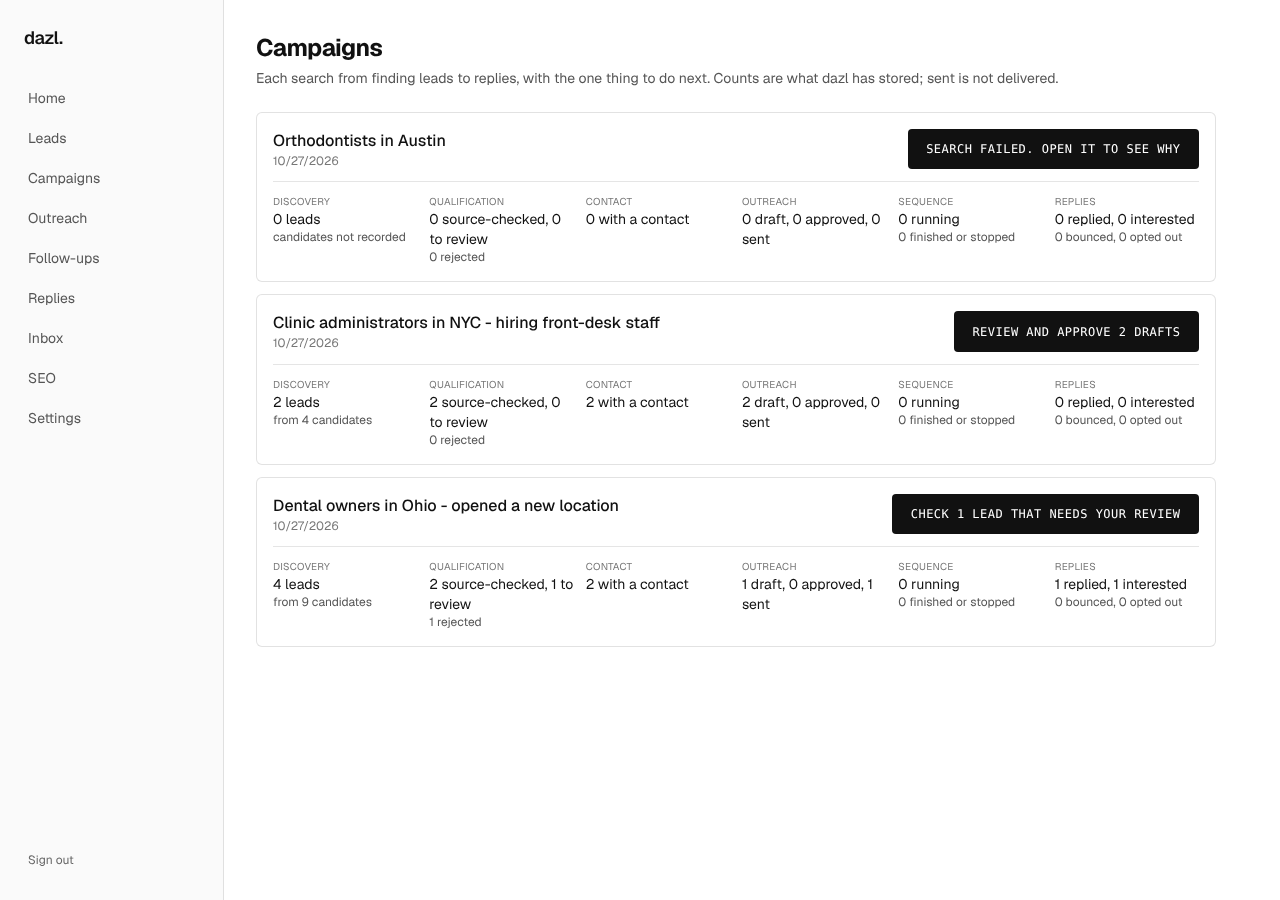
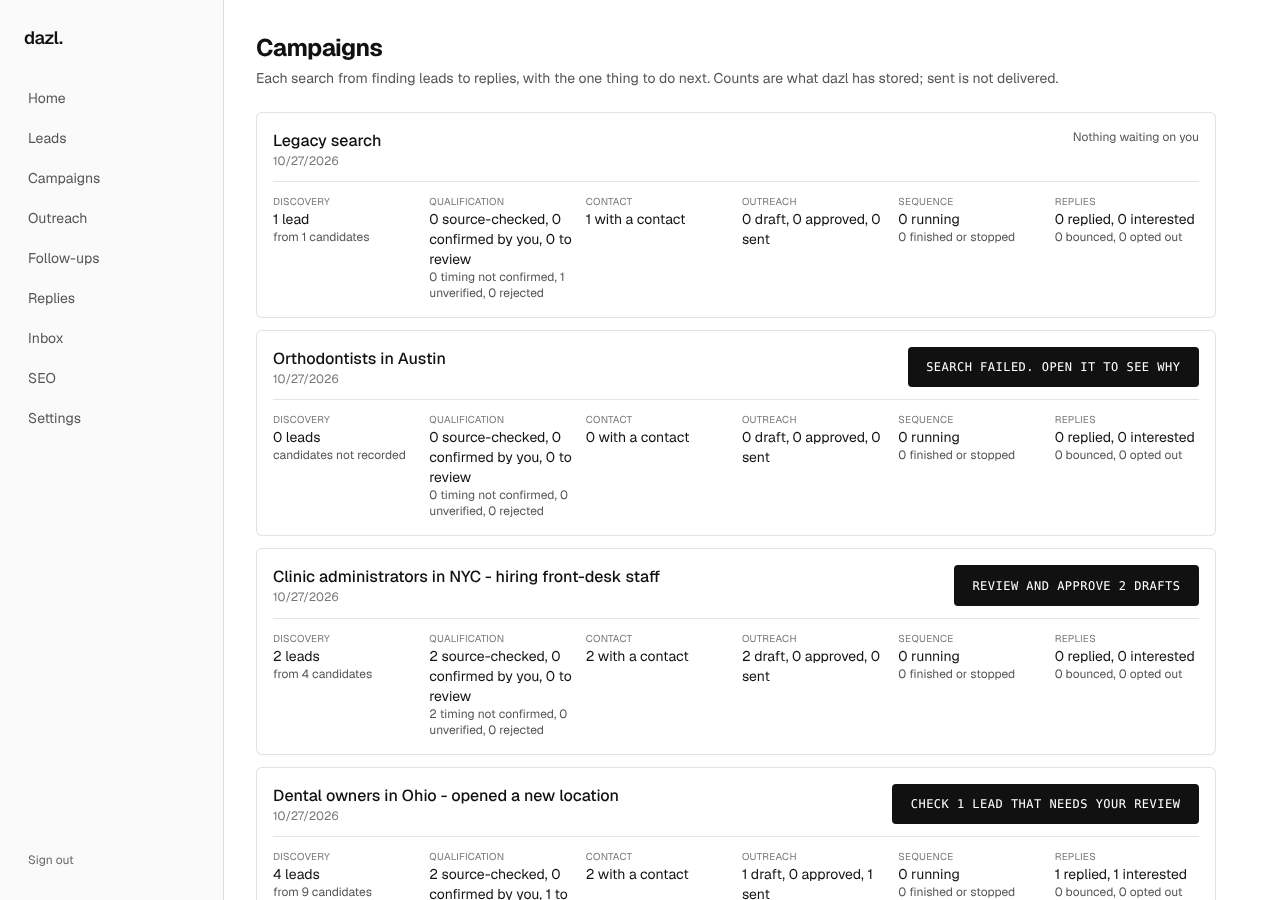
Campaigns and lead card: evidence state and draft eligibility from the server gates
Instinct's review of 2c37c65: a legacy lead with confidence 90 and a contact but
no stored excerpt was counted source-checked and offered as "Approve 1 lead to
draft emails", although leadEvidenceState calls it unverified and createDraft
refuses it.

- lib/outreach/evidence-state.ts evidenceStateOf: the one rule (machine = excerpt
  AND confidence; human = confirmed by you; else unverified). leadEvidenceState,
  createDraft's lead_not_verified check, the lead card's approveState and
  Campaigns all use it.
- service.ts: createDraft's checks extracted unchanged into draftChecks();
  draftBlockReason() runs them read-only and returns the first refusal code.
- Campaigns qualification: source-checked / confirmed by you / to review /
  unverified / timing not confirmed (currentnessHeld) / rejected. "Ready to
  draft" = no message yet and draftBlockReason null; a stored contact alone never
  counts. Next action gains "Confirm the timing of N leads before drafting".

Tests: campaigns controls (legacy no-excerpt, purged evidence, confirmed,
verified) checked against leadEvidenceState and draftBlockReason; lead-card
legacy control; campaigns UI seed gains the legacy row. gate-consistency,
lead-cards UI and the /app smoke still pass.

Claude-Session: https://claude.ai/code/session_01CafonXdzjwkFYiMRJWtsKo

diff --git a/web/test/campaigns.test.ts b/web/test/campaigns.test.ts
@@ -1,15 +1,13 @@
 import { test } from 'node:test'
 import assert from 'node:assert/strict'
 import Database from 'better-sqlite3'
-import { migrateScan } from '../lib/scan/store.ts'
-import { migrateOutreach } from '../lib/outreach/store.ts'
-import { migrateReplies } from '../lib/outreach/replies.ts'
-import { migrateSequences } from '../lib/outreach/sequences.ts'
+import { migrateAllSqlite } from '../lib/db/sqlite-migrations.ts'
 import { listCampaigns, nextAction } from '../lib/outreach/campaigns.ts'
+import { leadEvidenceState, draftBlockReason } from '../lib/outreach/service.ts'
 
 function setup() {
   const db = new Database(':memory:')
-  for (const m of [migrateScan, migrateOutreach, migrateReplies, migrateSequences]) m(db)
+  migrateAllSqlite(db)
   return db
 }
 let t = 1000
@@ -19,9 +17,9 @@ function job(db: Database.Database, user: string, id: string, query: string, o: 
     .run(id, user, o.test ? 'test only' : '(from request)', o.test ? 'test only' : '-', query, o.candidates ?? null, t++)
 }
 const finish = (db: Database.Database, id: string) => db.prepare("UPDATE scan_jobs SET status = 'done' WHERE id = ?").run(id)
-function lead(db: Database.Database, jobId: string, id: string, o: { confidence?: number | null; review?: string | null; confirmed?: number | null; contact?: string | null; quarantined?: number | null } = {}) {
-  db.prepare("INSERT INTO leads (id, scan_job_id, company, signal, source_url, confidence, review_reason, human_confirmed_at, contact, quarantined_at) VALUES (?, ?, 'Co', 'opened an office', 'https://news.example/x', ?, ?, ?, ?, ?)")
-    .run(id, jobId, o.confidence === undefined ? 80 : o.confidence, o.review ?? null, o.confirmed ?? null, o.contact ?? null, o.quarantined ?? null)
+function lead(db: Database.Database, jobId: string, id: string, o: { confidence?: number | null; excerpt?: string | null; review?: string | null; confirmed?: number | null; contact?: string | null; quarantined?: number | null; purged?: number | null } = {}) {
+  db.prepare("INSERT INTO leads (id, scan_job_id, company, signal, source_url, confidence, evidence_excerpt, review_reason, human_confirmed_at, contact, quarantined_at, evidence_purged_at) VALUES (?, ?, 'Co', 'opened an office', 'https://news.example/x', ?, ?, ?, ?, ?, ?, ?)")
+    .run(id, jobId, o.confidence === undefined ? 80 : o.confidence, o.excerpt === undefined ? 'Co opened an office' : o.excerpt, o.review ?? null, o.confirmed ?? null, o.contact ?? null, o.quarantined ?? null, o.purged ?? null)
 }
 function msg(db: Database.Database, tenant: string, leadId: string, status: string) {
   db.prepare("INSERT INTO outreach_messages (id, tenant_id, lead_id, to_email, subject, body, status) VALUES (?, ?, ?, 'a@b.example', 'Hello', 'A body that is long enough to pass the check.', ?)").run(`m-${leadId}`, tenant, leadId, status)
@@ -32,8 +30,8 @@ test('one row per search with every stage counted from that search only', () => 
   job(db, 'A', 'j1', 'Dental owners in Ohio', { candidates: 9 })
   lead(db, 'j1', 'l1', { contact: 'hello@one.example' })               // source-checked, contact, drafted
   lead(db, 'j1', 'l2', { contact: 'hi@two.example' })                  // source-checked, contact, sent
-  lead(db, 'j1', 'l3', { confidence: null, review: 'quote_unconfirmed' }) // needs review
-  lead(db, 'j1', 'l4', { confidence: null, review: null, confirmed: 5, contact: 'x@four.example' }) // confirmed by you, no email yet
+  lead(db, 'j1', 'l3', { confidence: null, excerpt: null, review: 'quote_unconfirmed' }) // needs review
+  lead(db, 'j1', 'l4', { confidence: null, excerpt: null, review: null, confirmed: 5, contact: 'x@four.example' }) // confirmed by you, no email yet
   lead(db, 'j1', 'l5', { quarantined: 7, contact: 'q@five.example' })  // rejected
   msg(db, 'A', 'l1', 'draft'); msg(db, 'A', 'l2', 'sent')
   db.prepare("INSERT INTO inbound_messages (gmail_id, tenant_id, thread_id, lead_id, from_email, excerpt, classification, received_at) VALUES ('g1','A','t1','l2','a@b.example','yes please','positive',1)").run()
@@ -49,7 +47,7 @@ test('one row per search with every stage counted from that search only', () => 
   assert.deepEqual({ ...c, created_at: 0 }, {
     id: 'j1', query: 'Dental owners in Ohio', status: 'done', error: null, created_at: 0,
     discovery: { candidates: 9, leads: 5 },
-    qualification: { sourceChecked: 2, confirmedByYou: 1, needsReview: 1, rejected: 1 },
+    qualification: { sourceChecked: 2, confirmedByYou: 1, needsReview: 1, unverified: 0, held: 2, rejected: 1 },
     contact: { withContact: 3 },
     outreach: { drafts: 1, approved: 0, sent: 1 },
     sequence: { active: 1, stopped: 0 },
@@ -62,7 +60,7 @@ test('one row per search with every stage counted from that search only', () => 
 })
 
 test('next action follows the pipeline order and never skips a gate', () => {
-  const base = { id: 'j', query: 'q', status: 'done', error: null, created_at: 0, discovery: { candidates: 3, leads: 3 }, qualification: { sourceChecked: 3, confirmedByYou: 0, needsReview: 0, rejected: 0 }, contact: { withContact: 3 }, outreach: { drafts: 0, approved: 0, sent: 0 }, sequence: { active: 0, stopped: 0 }, reply: { replied: 0, interested: 0, bounced: 0, optOuts: 0 } }
+  const base = { id: 'j', query: 'q', status: 'done', error: null, created_at: 0, discovery: { candidates: 3, leads: 3 }, qualification: { sourceChecked: 3, confirmedByYou: 0, needsReview: 0, unverified: 0, held: 0, rejected: 0 }, contact: { withContact: 3 }, outreach: { drafts: 0, approved: 0, sent: 0 }, sequence: { active: 0, stopped: 0 }, reply: { replied: 0, interested: 0, bounced: 0, optOuts: 0 } }
   const at = (o: object, undrafted = 0) => nextAction({ ...base, ...o } as typeof base, undrafted)
   assert.deepEqual(at({ status: 'running' }), { label: 'Search still running', href: '/app/leads?job_id=j' })
   assert.deepEqual(at({ status: 'failed', error: 'cancelled' }).label, 'Search cancelled. Run it again if you still want it')
@@ -72,6 +70,30 @@ test('next action follows the pipeline order and never skips a gate', () => {
   assert.deepEqual(at({ outreach: { drafts: 0, approved: 1, sent: 0 } }), { label: 'Send 1 approved email', href: '/app/outreach' })
   assert.deepEqual(at({ reply: { ...base.reply, interested: 2 } }), { label: 'Answer 2 interested replies', href: '/app/inbox' })
   assert.deepEqual(at({}, 3), { label: 'Approve 3 leads to draft emails', href: '/app/leads?job_id=j' })
+  assert.deepEqual(at({ qualification: { ...base.qualification, held: 2 } }), { label: 'Confirm the timing of 2 leads before drafting', href: '/app/leads?job_id=j' })
   assert.deepEqual(at({ discovery: { candidates: 0, leads: 0 } }), { label: 'No leads from this search. Try a broader one', href: '/app/leads' })
   assert.deepEqual(at({}), { label: 'Nothing waiting on you', href: null })
+})
+
+// Instinct #239: qualification and "ready to draft" come from the same evidence state and draft gate as the server.
+test('legacy no-excerpt, purged, confirmed and verified leads are counted exactly as the server gates see them', () => {
+  const db = setup()
+  job(db, 'A', 'j1', 'Controls')
+  lead(db, 'j1', 'legacy', { confidence: 90, excerpt: null, contact: 'hello@legacy.example' })   // confidence + contact, no excerpt
+  lead(db, 'j1', 'purged', { contact: 'hello@purged.example', purged: 1 })                      // excerpt kept, copied page purged
+  lead(db, 'j1', 'confirmed', { confidence: null, excerpt: null, confirmed: 5, contact: 'hi@confirmed.example' })
+  lead(db, 'j1', 'verified', { contact: 'hi@verified.example' })                                 // machine-verified, timing not yet reviewed
+  finish(db, 'j1')
+  // The canonical server functions for each row (draftBlockReason is createDraft's first refusal; the legacy row is
+  // also unverified, so it stays refused even after a timing review).
+  assert.deepEqual(['legacy', 'purged', 'confirmed', 'verified'].map(id => leadEvidenceState(db, 'A', id)), ['unverified', 'machine', 'human', 'machine'])
+  assert.deepEqual(['legacy', 'purged', 'confirmed', 'verified'].map(id => draftBlockReason(db, 'A', id)), ['lead_currentness_unconfirmed', 'lead_currentness_unconfirmed', null, 'lead_currentness_unconfirmed'])
+  const [c] = listCampaigns(db, 'A')
+  assert.deepEqual(c.qualification, { sourceChecked: 2, confirmedByYou: 1, needsReview: 0, unverified: 1, held: 2, rejected: 0 })
+  assert.equal(c.contact.withContact, 4, 'a stored contact is shown as a contact')
+  // Only the lead the draft gate accepts counts as ready: the legacy row with a contact does not.
+  assert.deepEqual(c.next, { label: 'Approve 1 lead to draft emails', href: '/app/leads?job_id=j1' })
+  // Once that one is drafted, the next step is the timing review the gate is holding, never a draft.
+  msg(db, 'A', 'confirmed', 'draft'); db.prepare("UPDATE outreach_messages SET status = 'sent' WHERE lead_id = 'confirmed'").run()
+  assert.deepEqual(listCampaigns(db, 'A')[0].next, { label: 'Confirm the timing of 2 leads before drafting', href: '/app/leads?job_id=j1' })
 })

diff --git a/web/lib/outreach/campaigns.ts b/web/lib/outreach/campaigns.ts
@@ -1,5 +1,8 @@
 import type Database from 'better-sqlite3'
 import { sequenceAnalytics } from './sequences.ts'
+import { evidenceStateOf } from './evidence-state.ts'
+import { currentnessHeld } from './currentness.ts'
+import { draftBlockReason } from './service.ts'
 
 // One row per search (a scan job is a campaign, as in the Outreach analytics): discovery -> qualification -> contact ->
 // outreach -> sequence -> reply, and the single next action. Read-only and tenant-scoped: every count is limited to the
@@ -8,7 +11,9 @@ import { sequenceAnalytics } from './sequences.ts'
 export interface Campaign {
   id: string; query: string; status: string; error: string | null; created_at: number
   discovery: { candidates: number | null; leads: number }
-  qualification: { sourceChecked: number; confirmedByYou: number; needsReview: number; rejected: number }
+  // The same evidence states as the draft/send gates (evidence-state.ts): machine = quote found on the cited page,
+  // human = confirmed by you, unverified = neither (and not in the review list). held = timing not confirmed yet.
+  qualification: { sourceChecked: number; confirmedByYou: number; needsReview: number; unverified: number; held: number; rejected: number }
   contact: { withContact: number }
   outreach: { drafts: number; approved: number; sent: number }
   sequence: { active: number; stopped: number }
@@ -25,11 +30,22 @@ export function listCampaigns(db: Database.Database, tenantId: string, limit = 1
     // Leads of THIS job of THIS tenant only (scan_jobs.user_id is the tenant).
     const L = `FROM leads l JOIN scan_jobs j ON j.id = l.scan_job_id AND j.user_id = ? WHERE l.scan_job_id = ?`
     const live = 'AND l.quarantined_at IS NULL'
-    const leads = n(`SELECT count(*) AS n ${L}`, tenantId, j.id)
-    const sourceChecked = n(`SELECT count(*) AS n ${L} ${live} AND l.review_reason IS NULL AND l.confidence IS NOT NULL`, tenantId, j.id)
-    const confirmedByYou = n(`SELECT count(*) AS n ${L} ${live} AND l.human_confirmed_at IS NOT NULL`, tenantId, j.id)
-    const needsReview = n(`SELECT count(*) AS n ${L} ${live} AND l.review_reason IS NOT NULL AND l.human_confirmed_at IS NULL`, tenantId, j.id)
-    const rejected = n(`SELECT count(*) AS n ${L} AND l.quarantined_at IS NOT NULL`, tenantId, j.id)
+    type Row = { id: string; evidence_excerpt: string | null; confidence: number | null; human_confirmed_at: number | null; review_reason: string | null; quarantined_at: number | null }
+    const rows = db.prepare(`SELECT l.id, l.evidence_excerpt, l.confidence, l.human_confirmed_at, l.review_reason, l.quarantined_at ${L}`).all(tenantId, j.id) as Row[]
+    const leads = rows.length
+    const liveRows = rows.filter(r => r.quarantined_at === null)
+    const rejected = leads - liveRows.length
+    let sourceChecked = 0, confirmedByYou = 0, needsReview = 0, unverified = 0
+    for (const r of liveRows) {
+      const st = evidenceStateOf(r)
+      if (st === 'machine') sourceChecked++
+      else if (st === 'human') confirmedByYou++
+      else if (r.review_reason) needsReview++
+      else unverified++
+    }
+    // The real gates, not a re-derivation: currentnessHeld is what holds drafting until timing is confirmed, and
+    // draftBlockReason runs every createDraft check without writing. A stored contact alone never counts as ready.
+    const held = liveRows.filter(r => evidenceStateOf(r) !== 'unverified' && currentnessHeld(db, tenantId, r.id)).length
     const withContact = n(`SELECT count(*) AS n ${L} ${live} AND coalesce(trim(l.contact), '') <> ''`, tenantId, j.id)
     const msg = (status: string) => n(`SELECT count(*) AS n FROM outreach_messages m JOIN leads l ON l.id = m.lead_id JOIN scan_jobs j ON j.id = l.scan_job_id AND j.user_id = ? WHERE m.tenant_id = ? AND l.scan_job_id = ? AND m.status = ?`, tenantId, tenantId, j.id, status)
     const drafts = msg('draft'), approved = msg('approved'), sent = msg('sent')
@@ -37,13 +53,12 @@ export function listCampaigns(db: Database.Database, tenantId: string, limit = 1
     const leadIds = (db.prepare(`SELECT l.id ${L}`).all(tenantId, j.id) as { id: string }[]).map(r => r.id)
     const a = sequenceAnalytics(db, tenantId, leadIds)
     const interested = leadIds.length ? n(`SELECT count(DISTINCT thread_id) AS n FROM inbound_messages WHERE tenant_id = ? AND classification = 'positive' AND lead_id IN (${leadIds.map(() => '?').join(',')})`, tenantId, ...leadIds) : 0
-    // Usable leads (source-checked or confirmed by you) with a stored contact and no email yet.
-    const undrafted = n(`SELECT count(*) AS n ${L} ${live} AND (l.human_confirmed_at IS NOT NULL OR (l.review_reason IS NULL AND l.confidence IS NOT NULL)) AND coalesce(trim(l.contact), '') <> ''
-      AND NOT EXISTS (SELECT 1 FROM outreach_messages m WHERE m.tenant_id = ? AND m.lead_id = l.id)`, tenantId, j.id, tenantId)
+    const drafted = new Set((db.prepare('SELECT lead_id FROM outreach_messages WHERE tenant_id = ?').all(tenantId) as { lead_id: string }[]).map(r => r.lead_id))
+    const undrafted = liveRows.filter(r => !drafted.has(r.id) && draftBlockReason(db, tenantId, r.id) === null).length
     const c: Omit<Campaign, 'next'> = {
       id: j.id, query: j.query, status: j.status, error: j.error, created_at: j.created_at,
       discovery: { candidates: j.candidates, leads },
-      qualification: { sourceChecked, confirmedByYou, needsReview, rejected },
+      qualification: { sourceChecked, confirmedByYou, needsReview, unverified, held, rejected },
       contact: { withContact },
       outreach: { drafts, approved, sent },
       sequence: { active: seq("'approved','active'"), stopped: seq("'replied','done','stopped'") },
@@ -66,6 +81,7 @@ export function nextAction(c: Omit<Campaign, 'next'>, undrafted: number): Campai
   if (c.outreach.approved > 0) return { label: `Send ${plural(c.outreach.approved, 'approved email', 'approved emails')}`, href: '/app/outreach' }
   if (c.reply.interested > 0) return { label: `Answer ${plural(c.reply.interested, 'interested reply', 'interested replies')}`, href: '/app/inbox' }
   if (undrafted > 0) return { label: `Approve ${plural(undrafted, 'lead', 'leads')} to draft emails`, href: leadsHref }
+  if (c.qualification.held > 0) return { label: `Confirm the timing of ${plural(c.qualification.held, 'lead', 'leads')} before drafting`, href: leadsHref }
   if (c.discovery.leads === 0) return { label: 'No leads from this search. Try a broader one', href: '/app/leads' }
   return { label: 'Nothing waiting on you', href: null }
 }

diff --git a/web/lib/outreach/service.ts b/web/lib/outreach/service.ts
@@ -1,4 +1,5 @@
 import {contactPurposeRestricted} from './contact-purpose-db.ts'
+import { evidenceStateOf, type EvidenceState } from './evidence-state.ts'
 import {currentnessHeld} from './currentness.ts'
 import { messageProvenance } from './provenance.ts'
 import { snapshotSignalContext } from './attribution.ts'
@@ -54,12 +55,10 @@ export function leadHeld(db: Database.Database, tenantId: string, leadId: string
 // (or dazl's own verification) still stands: withdrawing the confirmation revokes the
 // eligibility that backed it, and an exact-word approval hash is not a substitute.
 // Machine-verified leads are unaffected. Tenant-scoped like every other lead read.
-export type EvidenceState = 'machine' | 'human' | 'unverified'
+export type { EvidenceState } from './evidence-state.ts'
 export function leadEvidenceState(db: Database.Database, tenantId: string, leadId: string): EvidenceState {
   const l = db.prepare('SELECT l.evidence_excerpt, l.confidence, l.human_confirmed_at FROM leads l JOIN scan_jobs j ON j.id = l.scan_job_id WHERE l.id = ? AND j.user_id = ?').get(leadId, tenantId) as { evidence_excerpt: string | null; confidence: number | null; human_confirmed_at: number | null } | undefined
-  if (l && l.evidence_excerpt && l.confidence !== null) return 'machine'
-  if (l && l.human_confirmed_at !== null) return 'human'
-  return 'unverified'
+  return l ? evidenceStateOf(l) : 'unverified'
 }
 export function leadEvidenceEligible(db: Database.Database, tenantId: string, leadId: string): boolean {
   return leadEvidenceState(db, tenantId, leadId) !== 'unverified'
@@ -210,7 +209,8 @@ export function createDraft(db: Database.Database, tenantId: string, leadId: str
   return db.transaction(() => createDraftInner(db, tenantId, leadId, businessName)).immediate()
 }
 
-function createDraftInner(db: Database.Database, tenantId: string, leadId: string, businessName: string): string {
+// Every check createDraft makes before it writes, in the same order. Throws OutreachError on the first refusal.
+function draftChecks(db: Database.Database, tenantId: string, leadId: string) {
   const lead = db.prepare(
     `SELECT l.id, l.company, l.name, l.contact, l.signal, l.source_url, l.evidence_excerpt, l.confidence, l.fit, l.intent, l.human_confirmed_at
      FROM leads l JOIN scan_jobs j ON j.id = l.scan_job_id WHERE l.id = ? AND j.user_id = ?`,
@@ -221,7 +221,7 @@ function createDraftInner(db: Database.Database, tenantId: string, leadId: strin
   // Verified by dazl (quote confirmed on the cited page) OR confirmed by the user
   // themselves from the needs-review list. A human confirmation is the user's own
   // checked decision, labelled as such in the UI; it never rewrites the machine verdict.
-  if ((!lead.evidence_excerpt || lead.confidence === null) && lead.human_confirmed_at === null) throw new OutreachError('lead_not_verified')
+  if (evidenceStateOf(lead) === 'unverified') throw new OutreachError('lead_not_verified')
   // Held lead: ICP grading failed, so it sits at fit 0 with intent unset. That hold is not a
   // grade, and the lead must not be emailed until a rescan grades it successfully. A real
   // grade of 0 (intent set) and never-scored leads (fit unset) are not affected.
@@ -260,6 +260,17 @@ function createDraftInner(db: Database.Database, tenantId: string, leadId: strin
   const test = testRecipientApproved(db, tenantId, to) ? 1 : 0
   if (!recipientAllowed(db,tenantId,to)) throw new OutreachError('personal_email')
   if (isSuppressed(db, tenantId, to)) throw new OutreachError('suppressed')
+  return { lead, to, addressUrl, test }
+}
+
+// Read-only: why createDraft would refuse this lead right now (its error code), or null if it would accept it. Runs the
+// very same checks (draftChecks); used by views that recommend a next step, so they never recommend a refused one.
+export function draftBlockReason(db: Database.Database, tenantId: string, leadId: string): string | null {
+  try { draftChecks(db, tenantId, leadId); return null } catch (e) { if (e instanceof OutreachError) return e.code; throw e }
+}
+
+function createDraftInner(db: Database.Database, tenantId: string, leadId: string, businessName: string): string {
+  const { lead, to, addressUrl, test } = draftChecks(db, tenantId, leadId)
   // Older local databases may not have Memory yet. No default positioning is
   // fabricated, and another tenant's context is never used.
   let positioning = ''

diff --git a/web/lib/scan/lead-card.ts b/web/lib/scan/lead-card.ts
@@ -6,6 +6,7 @@
 import { contactIdentity, opportunityCard, type CardLead } from './opportunity.ts'
 import { publishedContact, publishedEmail } from '../outreach/published-email.ts'
 import { domainReviewFor } from '../outreach/domain-review.ts'
+import { evidenceStateOf } from '../outreach/evidence-state.ts'
 
 export type ApproveState = { ok: true } | { ok: false; reason: string }
 
@@ -32,7 +33,7 @@ export function approveState(l: CardLead): ApproveState {
   if (l.quarantined_at) return { ok: false, reason: 'Rejected. Undo to use it again.' }
   if (l.review_reason) return { ok: false, reason: 'dazl could not confirm this lead. Check the source under Needs your review first.' }
   if (l.window_held) return { ok: false, reason: 'Outside the time window you asked for, or its date is unknown. Research only.' }
-  if (l.confidence == null && l.human_confirmed_at == null) return { ok: false, reason: 'Not verified. Check the source first.' }
+  if (evidenceStateOf({ evidence_excerpt: l.evidence_excerpt, confidence: l.confidence ?? null, human_confirmed_at: l.human_confirmed_at ?? null }) === 'unverified') return { ok: false, reason: 'Not verified. Check the source first.' }
   if (l.fit === 0 && l.intent === null) return { ok: false, reason: 'Graded as not a fit for your profile.' }
   if (!publishedEmail(l)) return { ok: false, reason: 'No published email address to draft to yet. See Details to look for one.' }
   if (domainReviewFor({ id: l.id ?? '', contact: l.contact }, l.enrichments ?? []).state === 'required') return { ok: false, reason: 'Confirm the company website in Details first.' }

diff --git a/web/app/app/campaigns/campaigns-client.tsx b/web/app/app/campaigns/campaigns-client.tsx
@@ -32,7 +32,7 @@ export default function CampaignsClient() {
             </div>
             <div className="grid grid-cols-2 sm:grid-cols-3 lg:grid-cols-6 gap-3 border-t border-black/10 pt-3">
               {stage('Discovery', `${c.discovery.leads} lead${c.discovery.leads === 1 ? '' : 's'}`, c.discovery.candidates == null ? 'candidates not recorded' : `from ${c.discovery.candidates} candidates`)}
-              {stage('Qualification', `${c.qualification.sourceChecked} source-checked${c.qualification.confirmedByYou ? `, ${c.qualification.confirmedByYou} confirmed by you` : ''}, ${c.qualification.needsReview} to review`, `${c.qualification.rejected} rejected`)}
+              {stage('Qualification', `${c.qualification.sourceChecked} source-checked, ${c.qualification.confirmedByYou} confirmed by you, ${c.qualification.needsReview} to review`, `${c.qualification.held} timing not confirmed, ${c.qualification.unverified} unverified, ${c.qualification.rejected} rejected`)}
               {stage('Contact', `${c.contact.withContact} with a contact`)}
               {stage('Outreach', `${c.outreach.drafts} draft, ${c.outreach.approved} approved, ${c.outreach.sent} sent`)}
               {stage('Sequence', `${c.sequence.active} running`, `${c.sequence.stopped} finished or stopped`)}

diff --git a/web/lib/outreach/evidence-state.ts b/web/lib/outreach/evidence-state.ts
@@ -1,0 +1,11 @@
+// The one definition of a lead's evidence state, shared by the send/draft gates (service.ts), the lead card and the
+// Campaigns view. Client-safe: pure, no imports.
+//   machine    - dazl found the quoted text on the cited page: an excerpt is stored AND a confidence was recorded
+//   human      - the user confirmed the lead themselves (never rewrites the machine verdict)
+//   unverified - anything else (for example a legacy row with a confidence but no stored excerpt)
+export type EvidenceState = 'machine' | 'human' | 'unverified'
+export function evidenceStateOf(l: { evidence_excerpt: string | null; confidence: number | null; human_confirmed_at: number | null }): EvidenceState {
+  if (l.evidence_excerpt && l.confidence !== null) return 'machine'
+  if (l.human_confirmed_at !== null) return 'human'
+  return 'unverified'
+}

diff --git a/web/test/lead-card.test.ts b/web/test/lead-card.test.ts
@@ -84,3 +84,9 @@ test('address printed on the cited page reads as confirmed, with its basis', () 
   assert.deepEqual(status({}), { confirmed: true, text: 'Confirmed: address printed on the cited page.' })
   assert.equal(status({ contact: null }), null)
 })
+
+test('a legacy lead with a confidence but no stored excerpt is not approvable (same evidence state as the gate)', () => {
+  const a = approveState({ ...base, evidence_excerpt: null })
+  assert.equal(a.ok, false)
+  assert.match(a.ok ? '' : a.reason, /Not verified/)
+})
